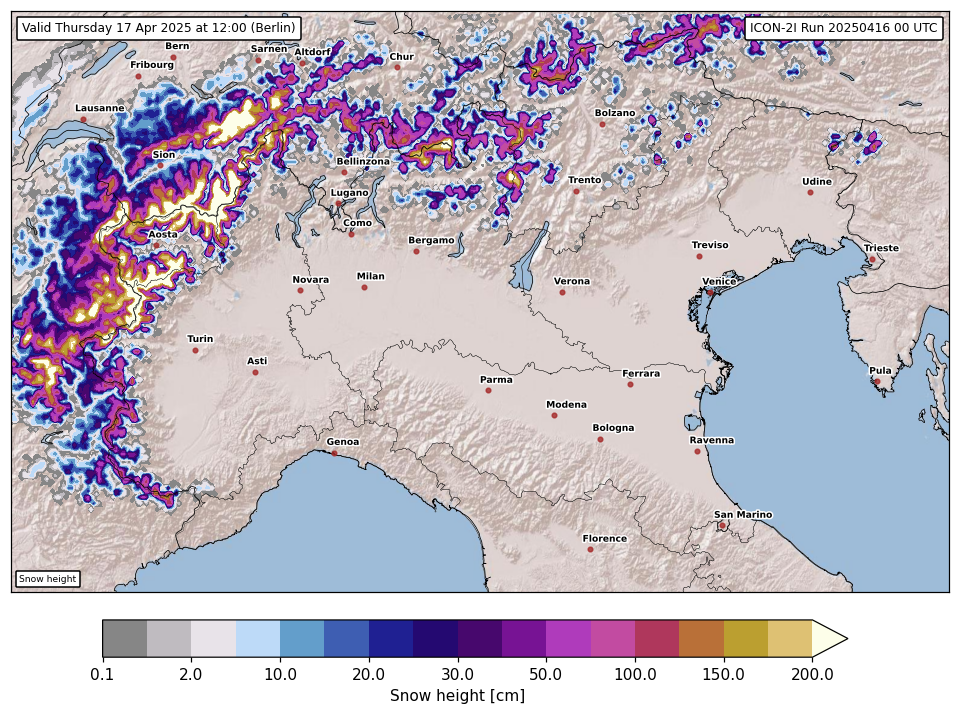
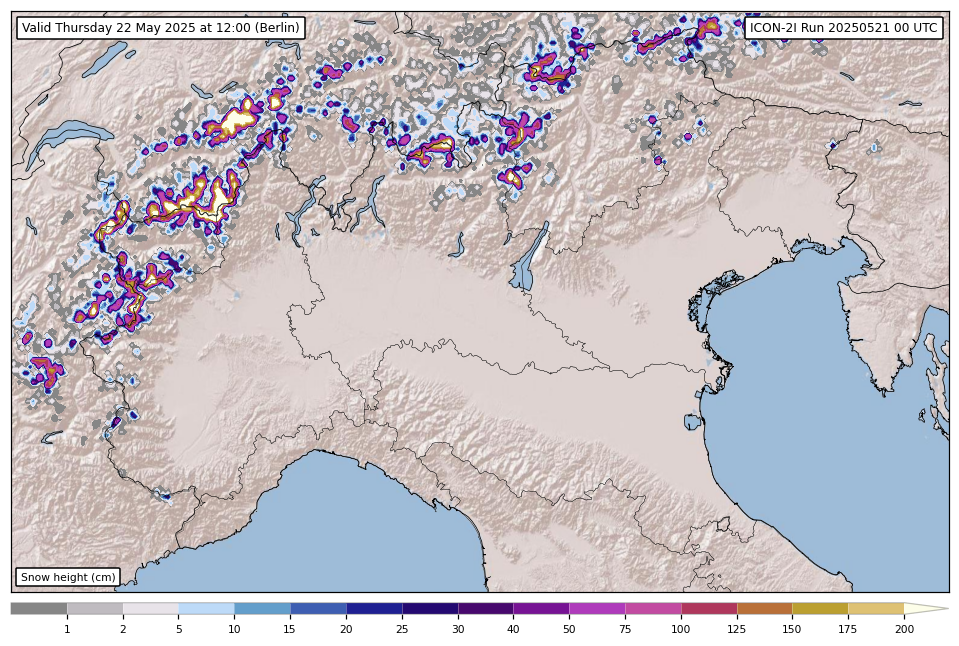
Minor modifications Updated README

diff --git a/plot_precip_acc.py b/plot_precip_acc.py
@@ -13,16 +13,15 @@ from definitions import (
     processes,
 )
 
-variable_name ='precip_acc'
+variable_name = "precip_acc"
 
 if not debug:
     import matplotlib
     matplotlib.use("Agg")
 
+
 def main():
-    logging.info(
-        f"Plotting {variable_name} for projection {projection}."
-    )
+    logging.info(f"Plotting {variable_name} for projection {projection}.")
     dset = utils.get_files_sfc(vars=["TOT_PREC"], projection=projection, run=run)
 
     levels_precip = np.concatenate(
@@ -35,7 +34,9 @@ def main():
             np.arange(1100, 2100, 100),
         ]
     )
-    cmap, norm = utils.get_colormap_norm("prec_acc_wxcharts", levels=levels_precip, extend='max')
+    cmap, norm = utils.get_colormap_norm(
+        "prec_acc_wxcharts", levels=levels_precip, extend="max"
+    )
 
     m, x, y, ax = utils.setup_figure_and_projection(dset, projection, background=True)
 
@@ -57,7 +58,14 @@ def plot_files(dss, **args):
     first = True
     for step in dss["step"]:
         data = dss.sel(step=step).copy()
-        tp_cf_name = utils.find_variable_by_long_name(data, ["Total Precipitation", "Total Precipitation rate (S)"])
+        tp_cf_name = utils.find_variable_by_long_name(
+            data,
+            [
+                "Total Precipitation",
+                "Total Precipitation rate (S)",
+                "Total Precipitation (Accumulation)",
+            ],
+        )
         cum_hour = int(
             ((data["valid_time"] - data["time"]).dt.total_seconds() / 3600).item()
         )
@@ -76,32 +84,32 @@ def plot_files(dss, **args):
             norm=args["norm"],
             levels=args["levels_precip"],
         )
-    
+
         density = 17
-        fontsize=6.5
-        if projection == 'nord':
+        fontsize = 6.5
+        if projection == "nord":
             density = 10
-        elif projection == 'sud':
+        elif projection == "sud":
             density = 9
-        elif projection == 'centro':
+        elif projection == "centro":
             density = 7
         vals = utils.add_vals_on_map(
             ax=args["ax"],
             var=data[tp_cf_name].where(data[tp_cf_name] > 50),
             x=args["x"],
             y=args["y"],
-            cmap=args['cmap'],
-            norm=args['norm'],
+            cmap=args["cmap"],
+            norm=args["norm"],
             density=density,
             fontsize=fontsize,
-            font_border_color="white"
+            font_border_color="white",
         )
 
         an_fc, an_var, an_run = utils.add_annotations(
             args["ax"],
             data["valid_time"].to_pandas(),
             "Accumulated precipitation (mm)",
-            run
+            run,
         )
 
         if first:
@@ -118,9 +126,7 @@ def plot_files(dss, **args):
         else:
             plt.savefig(filename, **options_savefig)
 
-        utils.remove_collections(
-            [cs, an_fc, an_var, an_run, vals]
-        )
+        utils.remove_collections([cs, an_fc, an_var, an_run, vals])
 
         first = False
 

diff --git a/utils.py b/utils.py
@@ -599,7 +599,7 @@ def add_vals_on_map(
                     path_effects=[
                         path_effects.withStroke(linewidth=font_border_width, foreground=font_border_color)
                     ],
-                    zorder=6,
+                    zorder=10,
                 )
             )
 

diff --git a/README.md b/README.md
@@ -3,12 +3,13 @@ This is a set of Python scripts that allows one to plot the model output from IC
 
 <center>
 <img src="example_img/precip_acc_072.png" height=300>
+<img src="example_img/gusts_036.png" height=300>
 <img src="example_img/h_snow_034.png" height=300>
+<img src="example_img/cape_cin_000.png" height=300>
 </center>
 
 Every Python script `plot_*.py` makes a different plot.
-The data is directly fetched at plot time and cached using `fsspec` so there's no need to donwload the data beforehand. 
-For most applications this is fine because the data to be downloaded for every plot is not large. 
+The data is directly fetched at plot time and cached using `fsspec` so there's no need to donwload the data beforehand. For most applications this is fine because the data to be downloaded for every plot is not large. 
 
 ## How to use
 For the moment no list of dependencies is provided so you'll need to figure that out on your own.
@@ -16,6 +17,7 @@ Once everything is set up you are able to just run every script and provide some
 
 - `--projection` can be one of the projections keywords defined in `projections.py`
 - `--debug` can be provided if you want to just see one plot instead than producing PNGs.
+- `--run` can be provided to select a certain run to be downloaded, otherwise the latest available is fetched
 
 The default behaviour is to output one PNG per timestep in a subfolder of `images` with the name of the `projection` chosen. 
 Every plot script creates file names with a prefix that depends on a plot type and a suffix that indicates the timestep of the foreacst.
